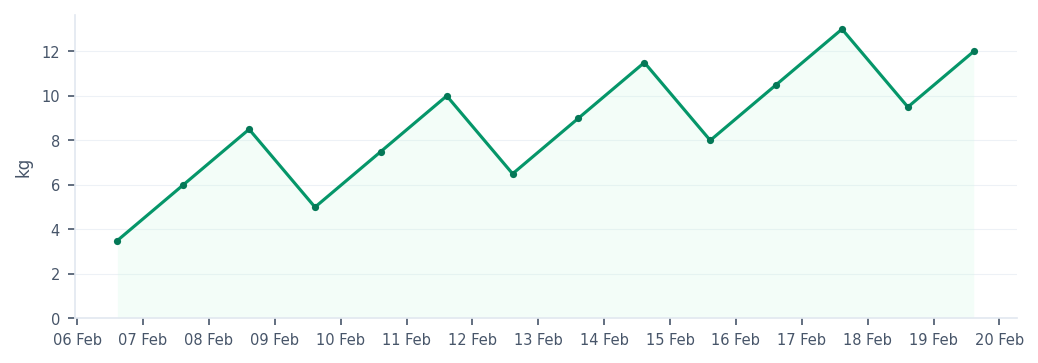
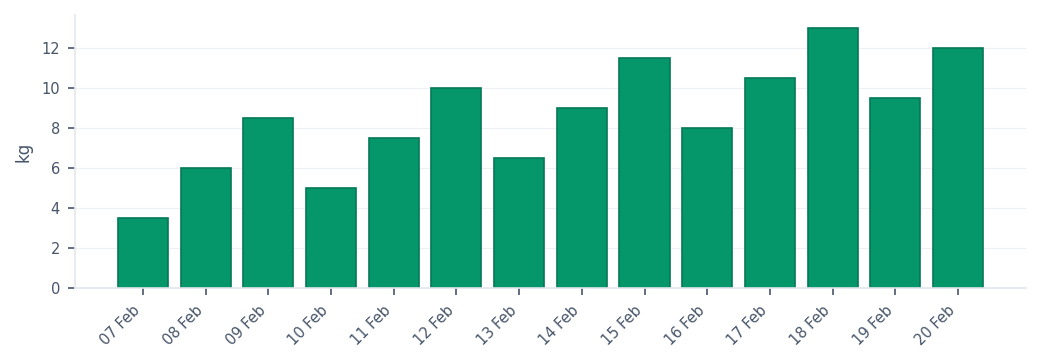
fix: bar charts for short periods, daily-only intervals, per-device alarms
- Auto-select bar chart (≤14 points) vs area chart (>14 points) for
  clearer visualization of short reporting periods
- Remove hourly interval bucketing (≤90 days → daily, else weekly) to
  eliminate duplicate x-axis date labels
- Force page break before Device Overview to prevent orphaned headers
- Fetch alarms per device (DEVICE type) instead of per site asset
  (ASSET type) so fault log actually populates
- Add 4 new chart threshold tests

diff --git a/reports-service/templates/report.html b/reports-service/templates/report.html
@@ -144,6 +144,7 @@
 
   /* ── Device overview (table + donut side by side) ──── */
   .device-overview {
+    page-break-before: always;
     overflow: hidden;  /* clearfix for floats */
     margin-bottom: 18px;
   }

diff --git a/reports-service/services/report_generator.py b/reports-service/services/report_generator.py
@@ -109,11 +109,8 @@ def _calculate_interval_ms(start_ts: int, end_ts: int) -> tuple[int, str]:
     """
     duration_ms = end_ts - start_ts
     one_day = 86_400_000
-    one_hour = 3_600_000
 
-    if duration_ms <= 3 * one_day:
-        return one_hour, "hourly"
-    elif duration_ms <= 62 * one_day:
+    if duration_ms <= 90 * one_day:
         return one_day, "daily"
     else:
         return 7 * one_day, "weekly"
@@ -221,12 +218,6 @@ def generate_report(request: ReportRequest) -> ReportResult:
         total_co2_grams = 0.0
 
         for site in hierarchy.sites:
-            site_faults: list[dict] = []
-            if "faults" in request.sections:
-                raw_alarms = tb.get_alarm_history(site.id, "ASSET", start_ts, end_ts)
-                site_faults = _transform_alarms(raw_alarms, site.name)
-                all_faults.extend(site_faults)
-
             for device in site.devices:
                 # Energy + CO2 totals
                 dev_energy = tb.get_telemetry_sum(device.id, "energy_wh", start_ts, end_ts)
@@ -274,6 +265,15 @@ def generate_report(request: ReportRequest) -> ReportResult:
                     "energy_kwh": round(dev_energy / 1000, 2),
                     "co2_kg": round(dev_co2 / 1000, 2),
                 })
+
+                # Per-device alarm fetch
+                if "faults" in request.sections:
+                    dev_alarms = tb.get_alarm_history(device.id, "DEVICE", start_ts, end_ts)
+                    dev_faults = _transform_alarms(dev_alarms, site.name)
+                    all_faults.extend(dev_faults)
+
+        # Sort faults by date descending
+        all_faults.sort(key=lambda f: f["date"], reverse=True)
 
         # Count faults from alarms
         total_fault = len(all_faults)

diff --git a/reports-service/tests/test_charts.py b/reports-service/tests/test_charts.py
@@ -120,6 +120,34 @@ class TestCharts:
         charts = generate_all_charts(data, ["energy", "co2"])
         assert "dim_trend" not in charts
 
+    def test_bar_chart_for_short_period(self):
+        """≤14 data points should produce a bar chart (still valid PNG)."""
+        short = _make_trend(7, 5.0)
+        png = energy_trend_chart(short)
+        assert png[:4] == PNG_MAGIC
+        assert len(png) > 1000
+
+    def test_bar_chart_at_threshold(self):
+        """Exactly 14 points should still use bar chart."""
+        trend = _make_trend(14, 5.0)
+        png = co2_trend_chart(trend)
+        assert png[:4] == PNG_MAGIC
+        assert len(png) > 1000
+
+    def test_area_chart_above_threshold(self):
+        """15+ data points should use area chart."""
+        long = _make_trend(15, 5.0)
+        png = energy_trend_chart(long)
+        assert png[:4] == PNG_MAGIC
+        assert len(png) > 1000
+
+    def test_area_chart_long_period(self):
+        """30 data points — area chart with dots."""
+        long = _make_trend(30, 5.0)
+        png = co2_trend_chart(long)
+        assert png[:4] == PNG_MAGIC
+        assert len(png) > 1000
+
     def test_to_base64_img(self):
         png = energy_trend_chart(MOCK_ENERGY_TREND)
         uri = to_base64_img(png)

diff --git a/reports-service/services/chart_generator.py b/reports-service/services/chart_generator.py
@@ -114,16 +114,24 @@ def _make_trend_area_chart(
 
     dates, values = _ts_to_dates(trend_data)
 
-    # Fallback to bar chart for 1 data point
-    if len(dates) == 1:
+    # Bar chart for sparse data (≤14 points) — clearer than area for short periods
+    if len(dates) <= 14:
         fig, ax = plt.subplots(figsize=(7, 2.5))
-        ax.bar(dates, values, width=0.6, color=fill_color, edgecolor=edge_color, linewidth=0.8)
+        date_labels = [d.strftime("%d %b") for d in dates]
+        ax.bar(range(len(values)), values, color=line_color,
+               edgecolor=edge_color, linewidth=0.8)
+        ax.set_xticks(range(len(values)))
+        ax.set_xticklabels(date_labels,
+                           rotation=45 if len(dates) > 10 else 0,
+                           ha="right" if len(dates) > 10 else "center",
+                           fontsize=7)
         ax.set_ylabel(ylabel, fontsize=8)
+        ax.set_ylim(bottom=0)
         _apply_clean_style(ax)
-        _auto_date_format(ax, 1)
         fig.tight_layout(pad=1.0)
         return _render_to_png(fig)
 
+    # Area chart for denser data (>14 points)
     fig, ax = plt.subplots(figsize=(7, 2.5))
 
     ax.fill_between(dates, values, alpha=0.25, color=fill_color, linewidth=0)
